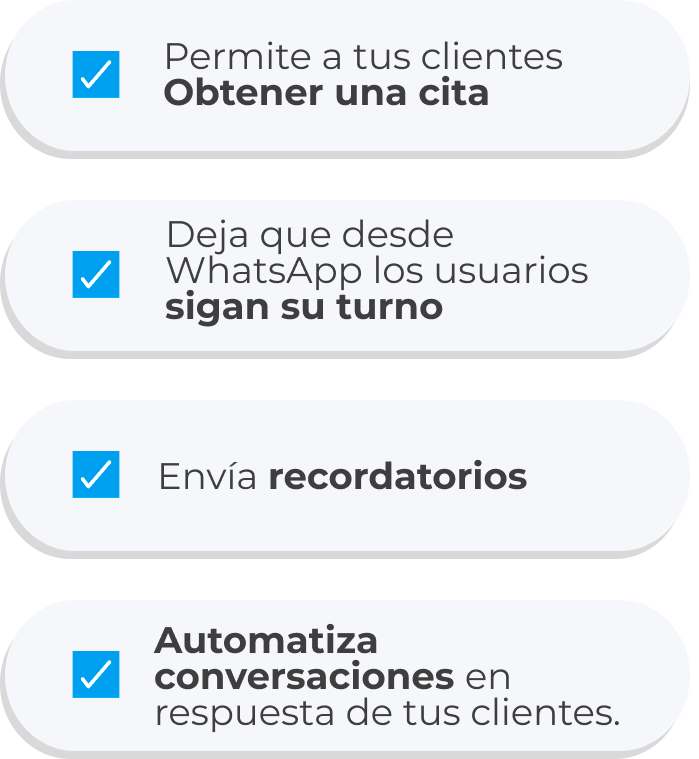
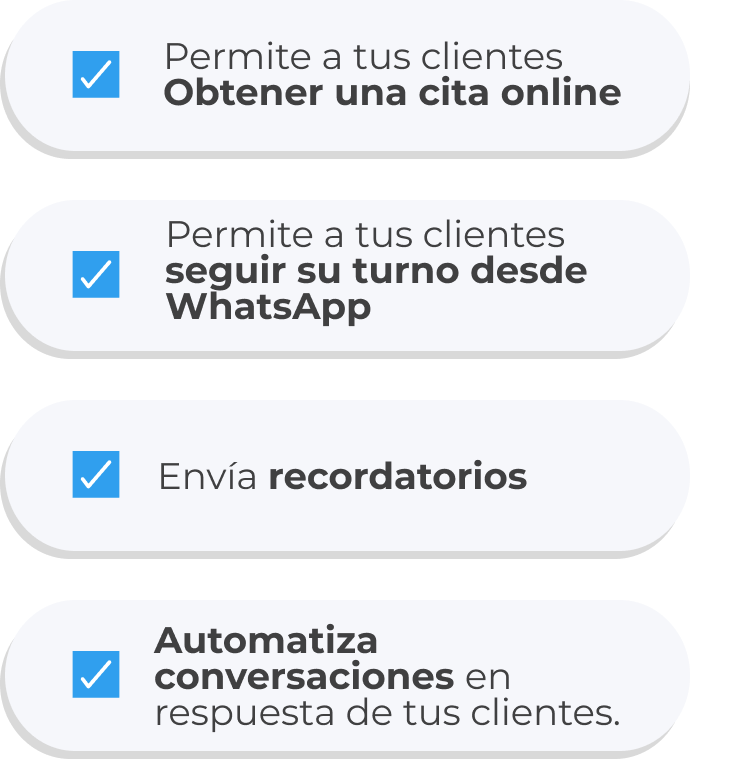
correc

diff --git a/components/Citas/Modern.js b/components/Citas/Modern.js
@@ -57,8 +57,8 @@ export default function Modern() {
 
                                         </h4>
                                         <p className="specs-section_citas_parraf">
-                                            Pata gestionar todo el flujo <br />
-                                            conalgoritmos de llamado <br />
+                                            Para gestionar todo el flujo <br />
+                                            con algoritmos de llamado <br />
                                             y priorización.
 
                                         </p>
@@ -100,12 +100,12 @@ export default function Modern() {
                                 <Col xs={12} className="specs-section_citas_div-text text-center d-flex justify-content-center my-3">
                                     <div>
                                         <h4 className="specs-section_citas_title">
-                                            Recordatodios<br /> personalizables enviados <br />
+                                            Recordatorios<br /> personalizables enviados <br />
                                             por mail o SMS.<br />
                                         </h4>
                                         <p className="specs-section_citas_parraf">
                                             Diseñados como campos dinámicos en función del
-                                            támitey el cliente.
+                                            támite y el cliente.
 
 
                                         </p>
@@ -128,9 +128,7 @@ export default function Modern() {
                                             Conectado con múltiples <br />trámites o agendas.
                                         </h4>
                                         <p className="specs-section_citas_parraf">
-                                            Que permiten definir <br />
-                                            tiempos de tolerancia por <br />
-                                            cada tipo de trámite.
+                                        Para definir tiempos de <br/>tolerancia por cada uno.
 
 
                                         </p>
@@ -242,8 +240,8 @@ export default function Modern() {
 
                                             </h4>
                                             <p className="specs-section_citas_parraf">
-                                                Pata gestionar todo el flujo <br />
-                                                conalgoritmos de llamado <br />
+                                                Para gestionar todo el flujo <br />
+                                                con algoritmos de llamado <br />
                                                 y priorización.
 
                                             </p>
@@ -289,12 +287,12 @@ export default function Modern() {
                                     <Col xs={12} className="specs-section_citas_div-text text-center d-flex justify-content-center my-3">
                                         <div>
                                             <h4 className="specs-section_citas_title">
-                                                Recordatodios<br /> personalizables enviados <br />
+                                                Recordatorios<br /> personalizables enviados <br />
                                                 por mail o SMS.<br />
                                             </h4>
                                             <p className="specs-section_citas_parraf">
                                                 Diseñados como campos dinámicos en función del
-                                                támitey el cliente.
+                                                támite y el cliente.
 
 
                                             </p>
@@ -318,9 +316,7 @@ export default function Modern() {
                                                 Conectado con múltiples <br />trámites o agendas.
                                             </h4>
                                             <p className="specs-section_citas_parraf">
-                                                Que permiten definir <br />
-                                                tiempos de tolerancia por <br />
-                                                cada tipo de trámite.
+                                            Para definir tiempos de <br/>tolerancia por cada uno.
 
 
                                             </p>
@@ -366,15 +362,12 @@ export default function Modern() {
                                     <Col xs={12} className="specs-section_citas_div-text text-center d-flex justify-content-center my-3">
                                         <div>
                                             <h4 className="specs-section_citas_title">
-                                                Integración con el sistema<br /> de gestión de filas.
+                                            Un sistema integrado a
 
 
                                             </h4>
                                             <p className="specs-section_citas_parraf">
-                                                Pata gestionar todo el flujo <br />
-                                                conalgoritmos de llamado <br />
-                                                y priorización.
-
+                                            Outlook y Google Calendar.
                                             </p>
                                         </div>
 

diff --git a/components/Videollamada/Specs.js b/components/Videollamada/Specs.js
@@ -30,17 +30,17 @@ export default function Modern() {
         <>
             <Container fluid className="specs-section_videocall">
                 <Container className="d-none d-sm-block">
-                        <Col xs={12} className="d-flex justify-content-center align-items-center">
-                            <Row>
-                                <Col xs={12} className="specs-section_videocall_text">
-                                    <div>
-                                        <h2><b>Ajusta la videollamada </b></h2>
-                                        <p> al flujo de atención de tu empresa</p>
-                                    </div>
-                                </Col>
-                            </Row>
-                        </Col>
+                    <Col xs={12} className="d-flex justify-content-center align-items-center">
                         <Row>
+                            <Col xs={12} className="specs-section_videocall_text">
+                                <div>
+                                    <h2>¿Cómo funciona el Sistema <br />de <b>Atención Virtual de Debmedia</b>? </h2>
+                                    {/* <p><b> al flujo de atención de tu empresa</b></p> */}
+                                </div>
+                            </Col>
+                        </Row>
+                    </Col>
+                    <Row>
                         <Col sm={3}>
                             <Row>
                                 <Col xs={12} className="specs-section_videocall_div-img d-flex justify-content-center">
@@ -98,10 +98,10 @@ export default function Modern() {
                                 <Col xs={12} className="specs-section_videocall_div-text text-center d-flex justify-content-center my-3">
                                     <div>
                                         <h4 className="specs-section_videocall_title">
-                                            Integración <br/> sencilla
+                                            Integración <br /> sencilla
                                         </h4>
                                         <p className="specs-section_videocall_parraf">
-                                            Integrable por <br /> API o Iframe.
+                                            IUna herramienta integrable por API o Iframe
 
                                         </p>
                                     </div>
@@ -119,10 +119,11 @@ export default function Modern() {
                                 <Col xs={12} className="specs-section_videocall_div-text text-center d-flex justify-content-center my-3">
                                     <div>
                                         <h4 className="specs-section_videocall_title">
-                                            Los clientes pueden conectarse
+                                            Los clientes pueden
                                         </h4>
                                         <p className="specs-section_videocall_parraf">
-                                            de forma espontánea o programada
+                                            Conectarse de forma espontánea
+                                            o programada.
 
 
                                         </p>
@@ -131,8 +132,8 @@ export default function Modern() {
                                 </Col>
                             </Row>
                         </Col>
-                        </Row>
-                     
+                    </Row>
+
                 </Container>
                 <Container className="d-block d-sm-none">
                     <Row>
@@ -235,7 +236,7 @@ export default function Modern() {
                                                 Integración sencilla
                                             </h4>
                                             <p className="specs-section_videocall_parraf">
-                                                Integrable por API o Iframe.
+                                                Una herramienta integrable por API o Iframe
 
                                             </p>
                                         </div>
@@ -255,10 +256,11 @@ export default function Modern() {
                                     <Col xs={12} className="specs-section_videocall_div-text text-center d-flex justify-content-center my-3">
                                         <div>
                                             <h4 className="specs-section_videocall_title">
-                                                Los clientes pueden conectarse
+                                                Los clientes pueden
                                             </h4>
                                             <p className="specs-section_videocall_parraf">
-                                                de forma espontánea o programada
+                                                Conectarse de forma espontánea
+                                                o programada.
 
 
                                             </p>

diff --git a/components/Videollamada/Flow.js b/components/Videollamada/Flow.js
@@ -71,9 +71,8 @@ export default function Market() {
                     </div>
                     <div className="greyBlock">
                         <div className="greyBlock_text">
-                            <h3>También puedes utilizar el sistema dentro de tus sucursales</h3>
-                            <p><b> Permite a tus clientes conectarse a la videollamada con un representante desde un kiosko</b> para disminuir el tiempo dentro de tus sucursales.
-
+                            <h3>Utiliza el sistema de Atención Virtual también dentro de las sucursales.</h3>
+                            <p><b> Tus clientes pueden conectarse a una videollamada con un representante desde un Kiosko </b> y reducir el tiempo que pasan dentro de las sucursales.
                             </p>
                         </div>
                     </div>
@@ -101,10 +100,9 @@ export default function Market() {
                     <Col className="p-0" xs={12}>
                         <div className="greyBlock">
                             <div className="greyBlock_text">
-                                <h3>También puedes utilizar el sistema dentro de tus sucursales</h3>
-                                <p><b> Permite a tus clientes conectarse a la videollamada con un representante desde un kiosko</b> para disminuir el tiempo dentro de tus sucursales.
-
-                                </p>
+                                <h3>Utiliza el sistema de Atención Virtual también dentro de las sucursales.</h3>
+                                <p><b> Tus clientes pueden conectarse a una videollamada con un representante desde un Kiosko </b> y reducir el tiempo que pasan dentro de las sucursales.
+                            </p>
                             </div>
                             <img src={sistematotemmobie.src} className="img-fluid w-100" alt="sistematotemmobie" />
                         </div>

diff --git a/components/Debq/Steps.js b/components/Debq/Steps.js
@@ -42,10 +42,10 @@ export default function Solutions() {
 
                             <h4 className="setps-section_title">
                                 Haz más eficientes
-                                <br className="d-none d-sm-block" /> tus recursos
+                                <br className="d-none d-sm-block" /> tus recursos.
                             </h4>
                             <p className="setps-section_parraf">
-                                Para ofrecer un servicio ágil
+                                Para ofrecer un servicio ágil.
                             </p>
                         </Col>
                         <Col sm={4} xs={4} className="setps-section_div">
@@ -58,7 +58,7 @@ export default function Solutions() {
                                     height={60} className={'img-fluid'} />
                             </div>
                             <h4 className="setps-section_title">
-                                Ofrece una experiencia simple
+                                Ofrece una experiencia simple.
                             </h4>
                             <p className="setps-section_parraf">
                                 Sin roces y con menos espera.
@@ -74,7 +74,7 @@ export default function Solutions() {
                                     height={60} className={'img-fluid'} />
                             </div>
                             <h4 className="setps-section_title">
-                                Mide indicadores clave
+                                Mide indicadores clave.
                             </h4>
                             <p className="setps-section_parraf">
                                 Para gestionar mejor a tus equipos.

diff --git a/components/Debsign/Steps.js b/components/Debsign/Steps.js
@@ -60,14 +60,14 @@ export default function Solutions() {
                                     height={60} className={'img-fluid'} />
                             </div>
                             <h4 className="setps-debsign-section_title">
-                                Transforma la forma <br className="d-none d-sm-block" />
-                                en la que comunicas <br className="d-none d-sm-block" />
-                                los mensajes
+                            Transforma los recursos <br className="d-none d-sm-block" />
+                            Utiliza componentes <br className="d-none d-sm-block" />amigables para el planeta.
+
 
                             </h4>
                             <p className="setps-debsign-section_parraf">
-                                Utiliza componentes amigables
-                                para el planeta
+                            Utiliza componentes amigables para el planeta.
+
                             </p>
                         </Col>
                         <Col sm={4} xs={4} className="setps-debsign-section_div">
@@ -83,7 +83,7 @@ export default function Solutions() {
                                 Genera contenido dinámico  <br className="d-none d-sm-block" /> y atractivo para los clientes.
                             </h4>
                             <p className="setps-debsign-section_parraf">
-                                Gana visibilidad en influye en decisiones de compra
+                                Gana visibilidad en influye en decisiones de compra.
                             </p>
                         </Col>
                     </Row>

diff --git a/components/Mobile/Market.js b/components/Mobile/Market.js
@@ -42,10 +42,10 @@ export default function Market() {
                             </div>
 
                             <h4 className="market-mobile-section_title">
-                                Clientes con incertidumbre
+                            Clientes con incertidumbre
                             </h4>
                             <p className="market-mobile-section_parraf">
-                                sobre el tiempo de espera para ser atendidos.
+                            sobre el tiempo de espera.
                             </p>
                         </Col>
                         <Col sm={4} xs={4} className="market-mobile-section_div">
@@ -55,10 +55,10 @@ export default function Market() {
                             </div>
 
                             <h4 className="market-mobile-section_title">
-                                Altas tasas de abandono
+                            Altas tasas de abandono
                             </h4>
                             <p className="market-mobile-section_parraf">
-                                de clientes insatisfechos sin ser atendidos.
+                            de clientes insatisfechos
                             </p>
                         </Col>
                     </Row>

diff --git a/components/Citas/Steps.js b/components/Citas/Steps.js
@@ -46,7 +46,7 @@ export default function Solutions() {
                                 <br className="d-none d-sm-block" />qué clientes te visitarán.
                             </h4>
                             <p className="setps-section_citas_parraf">
-                                Ofrece una experiencia personalizada y eleva la satisfacción
+                                Ofrece una experiencia personalizada y eleva la satisfacción.
                             </p>
                         </Col>
                         <Col sm={4} xs={4} className="setps-section_citas_div">
@@ -114,7 +114,7 @@ export default function Solutions() {
                                     <Col sm={6} className="relative">
                                         <h3 className="text-left mb-4">
                                             <b>Permite a los clientes agendar
-                                            </b> <br />sus citas desde la web
+                                            </b> <br />sus citas online desde la web
                                         </h3>
                                         <span className="lineSteps-citas"></span>
                                         <Nav variant="pills" className="flex-column">

diff --git a/components/Citas/Header.js b/components/Citas/Header.js
@@ -38,7 +38,7 @@ export default function Header() {
                                 Ordena el flujo<br className="d-none d-sm-block" /> de clientes<br className="d-none d-sm-block" /> que llegan a <br className="d-none d-sm-block d-xxl-none" />las sucursales
                                 </h1>
                                 <p className="citas-home_parraf">
-                                 <b>Software de citas </b>para empresas con <br/> múltiples trámites y tipos de atención
+                                 <b>Software de citas online </b>para empresas con <br/> múltiples trámites y tipos de atención
                                 </p>
                                 <Link href="/contacto">
                                 <button className="citas-home_demobutton">

diff --git a/components/Preatendedor/Steps.js b/components/Preatendedor/Steps.js
@@ -88,8 +88,8 @@ export default function Solutions() {
                     <Row>
                         <Col sm="12" className="wapp-preatendedor-section_maintitle">
                             <h3 className="text-center">
-                                <b>A través de WhatsApp direcciona a tus clientes </b><br />
-                                para que escojan el canal de atención más adecuado
+                                <b>Direcciona a tus clientes a través de WhatsApp </b><br />
+                                para que elijan el canal de atención más adecuado
                             </h3>
                         </Col>
                     </Row>

diff --git a/components/Encuestas/Modern.js b/components/Encuestas/Modern.js
@@ -15,9 +15,8 @@ export default function Modern() {
                     <Row>
                         <Col className="modern-section_maintitle">
                             <h3 className="text-center">
-                                <b>Eleva la tasa de respuesta hasta 10 veces </b><br className="d-none d-sm-block" />
-                                luego de prestar la atención
-
+                                <b>Eleva la tasa de respuesta con encuestas de satisfacción</b><br className="d-none d-sm-block" />
+                                hasta 10 veces más.
                             </h3>
                         </Col>
                     </Row>

diff --git a/components/Preatendedor/Flow.js b/components/Preatendedor/Flow.js
@@ -16,8 +16,8 @@ export default function Flow() {
                     <Row>
                         <Col sm="12" className="wapp-preatendedor-section_maintitle">
                             <h3 className="text-center">
-                                <b>o a través de Whatsapp direcciónalos</b> para que <br />
-                                escojan canal de atención más adecuado
+                                <b>Implementa un portal de pre atención personalizable</b> que los <br />
+                                guía a la elección de su trámite.
                             </h3>
                         </Col>
                     </Row>

diff --git a/components/Debsign/Market.js b/components/Debsign/Market.js
@@ -15,9 +15,10 @@ export default function Market() {
                     <Row>
                         <Col className="market-mobile-section_maintitle text-center">
                             <h3>
-                                Sin las herramientas adecuadas puede que no<br />
+                            Sin las herramientas adecuadas<br />
                             </h3>
-                            <p>estes comunicado correctamente con tus clientes   </p>
+                            <p>puede que no estés comunicando mensajes correctos
+</p>
                         </Col>
                     </Row>
                     <Row>
